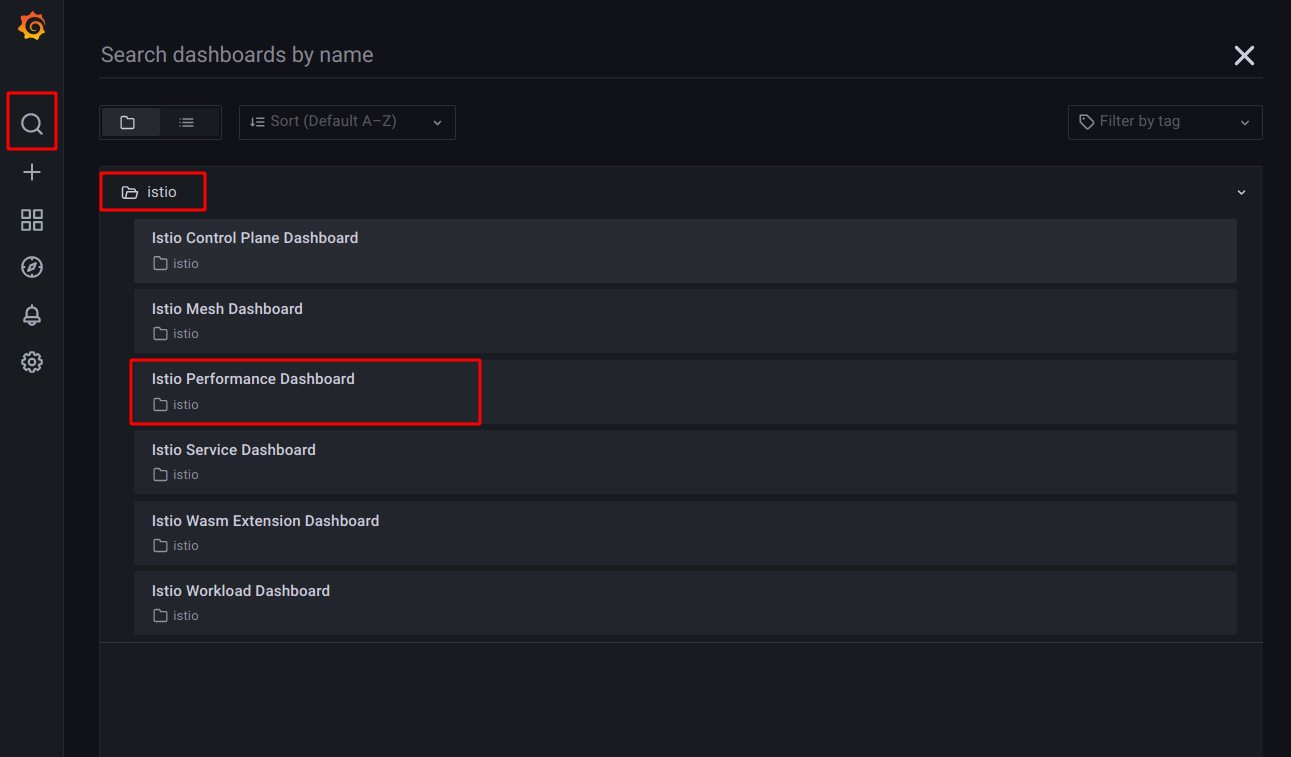
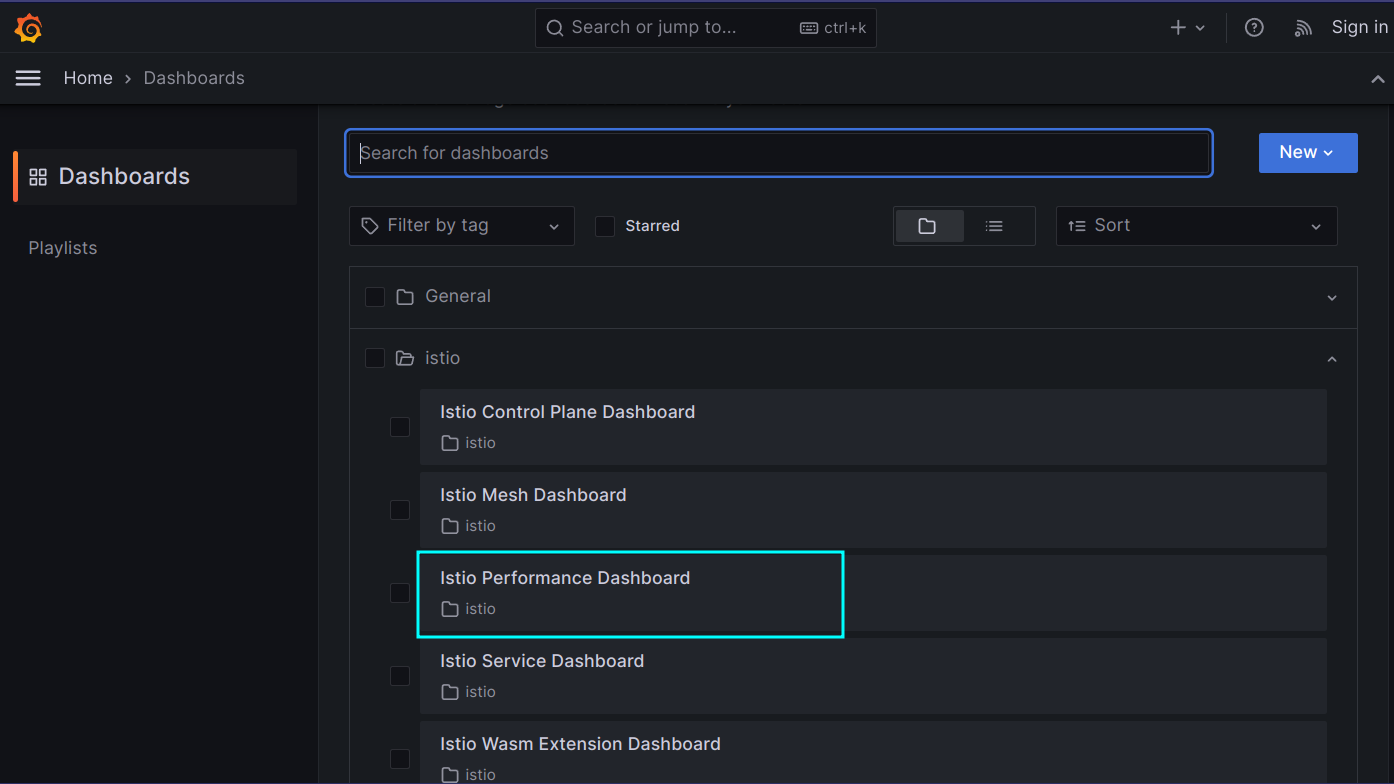
update

diff --git a/docs/exercise1.md b/docs/exercise1.md
@@ -29,25 +29,25 @@ which will assign 6 GB of RAM.
 
 ## 2 Install Istio
 
-This workshop is based on Istio version 1.16.1 (which was released in December 2022).
+This workshop is based on Istio version 1.20.1 (which was released in November 2023).
 
 Official instructions can be found [here](https://istio.io/latest/docs/setup/getting-started/).
 
-1. Download Istio 1.16.1:
+1. Download Istio 1.20.1:
 
-    **Note: On bwLehrpool** you can skip this step, Istio 1.16.1 is already downloaded in the `student` home directory!
+    **Note: On bwLehrpool** you can skip this step, Istio 1.20.1 is already downloaded in the `student` home directory!
    
     ```
-	curl -L https://istio.io/downloadIstio | ISTIO_VERSION=1.16.1 TARGET_ARCH=x86_64 sh -
+	curl -L https://istio.io/downloadIstio | ISTIO_VERSION=1.20.1 TARGET_ARCH=x86_64 sh -
     ```
 
 2. Change into the Istio directory
    
     ```
-	cd istio-1.16.1
+	cd istio-1.20.1
     ```
 
-    (On **bwLehrpool** this is /home/student/istio-1.16.1)
+    (On **bwLehrpool** this is /home/student/istio-1.20.1)
 
 3. Install Istio:
 
@@ -57,15 +57,13 @@ Official instructions can be found [here](https://istio.io/latest/docs/setup/get
 
    Output: 
 
-    ```
-    ✔ Istio core installed                                                                                                  
-    ✔ Istiod installed                                                                                                      
-    ✔ Ingress gateways installed                                                                                            
-    ✔ Egress gateways installed                                                                                             
-    ✔ Installation complete  
-    Making this installation the default for injection and validation.
-
-    Thank you for installing Istio 1.16.1.
+    ```                                                                              
+    ✔ Istio core installed 
+    ✔ Istiod installed
+    ✔ Egress gateways installed 
+    ✔ Ingress gateways installed 
+    ✔ Installation complete
+    Made this installation the default for injection and validation.
     ```
 
 4. Verify the the Istio installation:
@@ -119,7 +117,7 @@ We will now install the telemetry or observability add-ons:
 * [Jaeger](https://istio.io/latest/docs/ops/integrations/jaeger/) (Distributed Tracing)
 * [Kiali](https://istio.io/latest/docs/ops/integrations/kiali/) (Istio dashboard)
 
-While still in the istio-1.16.1 directory, issue the following commands
+While still in the istio-1.20.1 directory, issue the following commands
 
 ```
 kubectl apply -f samples/addons/prometheus.yaml
@@ -170,7 +168,7 @@ tracing                ClusterIP      10.98.100.68     <none>        80/TCP,1668
 zipkin                 ClusterIP      10.103.150.84    <none>        9411/TCP                                                                     2m34s
 ```
 
-Jaeger deployment creates 2 services: jaeger-collector and tracing. The tracing service will later provide the Jaeger UI.
+Jaeger deployment creates 3 services: jaeger-collector, tracing, and zipkin. The tracing service will later provide the Jaeger UI.
 
 ---
 

diff --git a/docs/exercise3.md b/docs/exercise3.md
@@ -93,7 +93,11 @@ kubectl port-forward service/grafana 3000:3000 -n istio-system
 ```
 
 1. In a browser open the Grafana UI at [http://localhost:3000/](http://localhost:3000/)
-2. Click on the Looking Glas (search), click on the Istio folder, then select the Istio Performance Dashboard
+2. Click on the "Hamburger"menu" (1), then on "Dashboard" (2)
+
+    ![Grafana Menu](../images/grafana-menu.png)
+
+3. From the list of dashboards select the "Istio Performance Dashboard"
 
     ![Grafana UI](../images/grafana1.png)
 
@@ -121,7 +125,7 @@ kubectl port-forward service/kiali 20001:20001 -n istio-system
     ![Kiali UI](../images/kiali1.png)
 
 3. You can now see a graphical representation of your micro services including the distribution of requests amongst your services.
-    Watch the distribution of requests amongst the 3 versions the Reviews service: 1/3 = 33.3 % go to each of the versions: equal distribution or "round robin".
+    Watch the distribution of requests amongst the 3 versions the Reviews service: 1/3 = 33.3 % go to each of the versions: equal distribution or "round robin". **Note:** Kiali needs to be active for a while to show a somewhat equal distribution.  
     Also note that only v2 and v3 are making requests to the Ratings service.
 
     ![Kiali Details](../images/kiali2.png)

diff --git a/docs/exercise2.md b/docs/exercise2.md
@@ -86,7 +86,11 @@ Now that the Bookinfo services are up and running, you need to make the applicat
 
     ```
     kubectl get service -n istio-system | grep ingress
+    ```
     
+    Output:
+
+    ```
     istio-ingressgateway   LoadBalancer   10.107.101.80  <pending> ...   
     ```
 
@@ -102,7 +106,7 @@ Now that the Bookinfo services are up and running, you need to make the applicat
     minikube tunnel
     ```
 
-    When requested, authenticate with your root password. **Keep this session open and active!**
+    Wait a moment and when requested, authenticate with your root password. **Keep this session open and active!**
 
     Now repeat the command:
 
@@ -130,7 +134,7 @@ Now that the Bookinfo services are up and running, you need to make the applicat
 
     ![Bookinfo UI](../images/bookinfo_ui.png)
 
-    Refresh the page several times and watch Book Reviews section: 
+    **Refresh the page several times** and watch Book Reviews section: 
     * no stars = reviews-v1
     * black stars = reviews-v2
     * red stars = reviews-v3

diff --git a/index.md b/index.md
@@ -37,8 +37,8 @@ These are the exercises of this workshop, go through all of them in sequence:
 
 This hands-on workshop was created and tested with
 
-* Minikube v1.28.0 (includes Kubernetes v1.25.3) 
-* Istio v1.16.1
+* Minikube v1.32.0 (includes Kubernetes v1.28.3) 
+* Istio v1.20.1
 
 ## Credits
 
